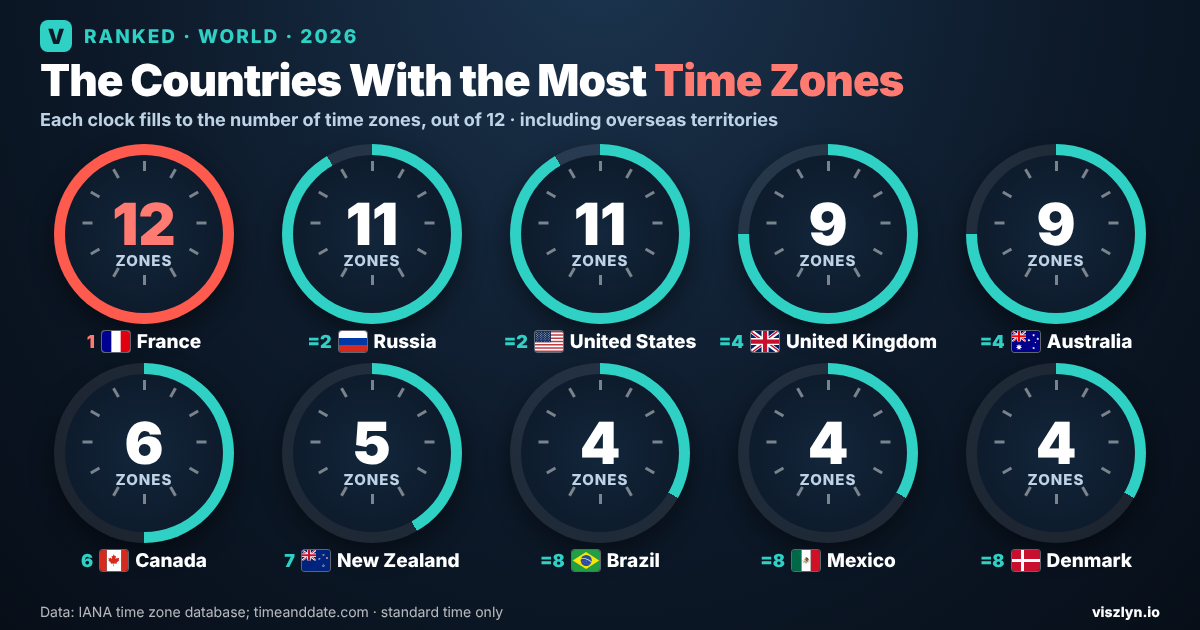
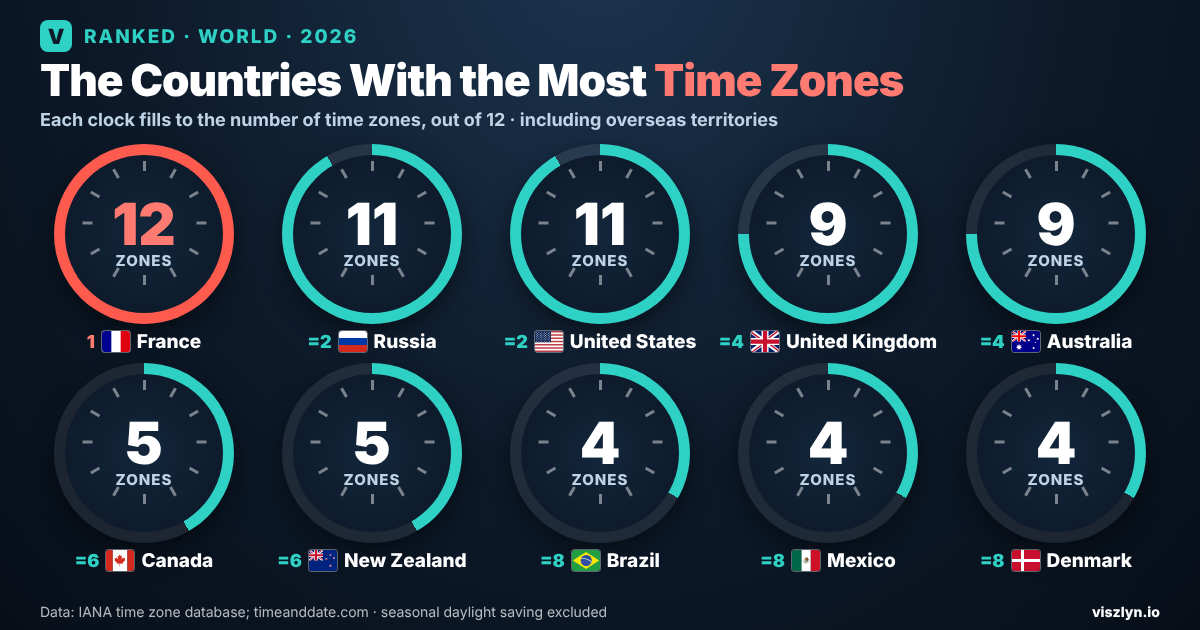
Time zones: apply review - Canada 5 after 2026 permanent-time changes, UK/France/NZ/US offsets, methodology
Claude-Session: https://claude.ai/code/session_01Lx7Mnbsr2j6Zre36XCS9Kp

diff --git a/src/data/rankings/countries-with-most-time-zones-2026.ts b/src/data/rankings/countries-with-most-time-zones-2026.ts
@@ -7,7 +7,7 @@ export const countriesWithMostTimeZones2026: RankingArticle = {
 
   metaTitle: "Which Country Has the Most Time Zones? The Top 10 Ranked | Viszlyn",
   metaDescription:
-    "France has the most time zones in the world: 12, thanks to its overseas territories. Russia and the US have 11 each, the UK and Australia 9. The top 10, ranked.",
+    "France has the most time zones in the world: 12, thanks to its overseas territories. Russia and the US have 11 each, the UK and Australia 9, Canada and New Zealand 5. The top 10, ranked.",
   ogTitle: "The Countries With the Most Time Zones",
   ogDescription:
     "Not Russia: France has the most time zones, 12, from French Polynesia to New Caledonia. Russia and the US follow with 11 each.",
@@ -20,20 +20,20 @@ export const countriesWithMostTimeZones2026: RankingArticle = {
   dek: "Russia is the world's widest country, but France has more time zones, thanks to islands and territories scattered across the Pacific, Atlantic and Indian oceans. Here are the 10 countries whose territory spans the most time zones.",
   publishedDate: "November 16, 2026",
   lastUpdated: "November 16, 2026",
-  dataPeriod: "Standard time in use in November 2026",
+  dataPeriod: "Time-zone rules in force in November 2026; seasonal daylight-saving offsets excluded",
   heroImage: {
     src: "/heroes/countries-with-most-time-zones-2026.png",
     ogSrc: "/heroes/countries-with-most-time-zones-2026-og.png",
-    alt: "A wall of world clocks, each filled to the number of time zones in a country out of 12: France 12, Russia 11, United States 11, United Kingdom 9, Australia 9, Canada 6, New Zealand 5, Brazil 4, Mexico 4 and Denmark 4.",
+    alt: "A wall of world clocks, each filled to the number of time zones in a country out of 12: France 12, Russia 11, United States 11, United Kingdom 9, Australia 9, Canada 5, New Zealand 5, Brazil 4, Mexico 4 and Denmark 4.",
   },
 
   quickAnswer:
-    "France has the most time zones of any country: 12, counting its overseas territories, from UTC−10 in French Polynesia to UTC+12 in Wallis and Futuna. Russia and the United States have 11 each, the United Kingdom and Australia 9 each, and Canada 6. Without their overseas territories, Russia has the most, with 11.",
+    "France has the most distinct time-zone offsets of any country: 12, counting its overseas territories, from UTC−10 in French Polynesia to UTC+12 in Wallis and Futuna. Russia and the United States follow with 11 each. The United Kingdom and Australia have nine each, while Canada and New Zealand have five each under the November 2026 rules. Without overseas territories, Russia has the most, with 11.",
   introParagraph:
     "A country's number of time zones is the number of different standard-time offsets from Coordinated Universal Time (UTC) in use across its territory. For countries with overseas territories, the count includes them, which is why France, the United Kingdom and Denmark rank so high despite having a single time zone at home. Daylight saving time is not counted as an extra zone. The counts follow the IANA time zone database, which computers and phones use to keep local time, checked against national time rules and timeanddate.com.",
   calloutBox: {
     label: "Without overseas territories, Russia leads",
-    body: "Counting only each country's main territory, Russia has the most time zones, 11, from UTC+2 in Kaliningrad to UTC+12 in Kamchatka. The United States has 6 across its 50 states, Canada 6, and Australia 4 official zones plus Eucla's unofficial UTC+8:45. France, the United Kingdom and Denmark have one each. China, one of the world's largest countries, uses a single time zone, UTC+8, for the whole country.",
+    body: "Counting only each country's main territory, Russia has the most time zones, 11, from UTC+2 in Kaliningrad to UTC+12 in Kamchatka. The United States has 6 across its 50 states, Canada 5, and Australia 4 official zones plus Eucla's unofficial UTC+8:45. France, the United Kingdom and Denmark have one each. China, one of the world's largest countries, uses a single time zone, UTC+8, for the whole country.",
   },
 
   chartTitle: "Number of time zones (standard time), including overseas territories",
@@ -46,8 +46,8 @@ export const countriesWithMostTimeZones2026: RankingArticle = {
     { rank: 3, rankLabel: "=2", name: "United States", value: "11", raw: 11, countries: [{ name: "United States", flagCode: "us" }] },
     { rank: 4, rankLabel: "=4", name: "United Kingdom", value: "9", raw: 9, countries: [{ name: "United Kingdom", flagCode: "gb" }] },
     { rank: 5, rankLabel: "=4", name: "Australia", value: "9", raw: 9, countries: [{ name: "Australia", flagCode: "au" }] },
-    { rank: 6, name: "Canada", value: "6", raw: 6, countries: [{ name: "Canada", flagCode: "ca" }] },
-    { rank: 7, name: "New Zealand", value: "5", raw: 5, countries: [{ name: "New Zealand", flagCode: "nz" }] },
+    { rank: 6, rankLabel: "=6", name: "Canada", value: "5", raw: 5, countries: [{ name: "Canada", flagCode: "ca" }] },
+    { rank: 7, rankLabel: "=6", name: "New Zealand", value: "5", raw: 5, countries: [{ name: "New Zealand", flagCode: "nz" }] },
     { rank: 8, rankLabel: "=8", name: "Brazil", value: "4", raw: 4, countries: [{ name: "Brazil", flagCode: "br" }] },
     { rank: 9, rankLabel: "=8", name: "Mexico", value: "4", raw: 4, countries: [{ name: "Mexico", flagCode: "mx" }] },
     { rank: 10, rankLabel: "=8", name: "Denmark", value: "4", raw: 4, countries: [{ name: "Denmark", flagCode: "dk" }] },
@@ -92,22 +92,24 @@ export const countriesWithMostTimeZones2026: RankingArticle = {
     },
     {
       rank: 7,
+      rankLabel: "=6",
       name: "New Zealand",
       earnings: "5 time zones",
       category: "Oceania",
       origin: "UTC−11, UTC−10, UTC+12, UTC+12:45, UTC+13",
-      blurb: "New Zealand itself has two time zones: UTC+12 and UTC+12:45 on the Chatham Islands. Its Pacific territories and associated states, Niue, the Cook Islands and Tokelau, add three more.",
+      blurb: "New Zealand itself has two time zones: UTC+12 and UTC+12:45 on the Chatham Islands. Tokelau, a New Zealand territory, and the associated states of Niue and the Cook Islands, which are self-governing in free association with New Zealand, add three more.",
       standoutFact: "In summer, the Chatham Islands move to UTC+13:45, an offset used nowhere else in the world.",
       sourceTag: SRC,
       countries: [{ name: "New Zealand", flagCode: "nz" }],
     },
     {
       rank: 6,
+      rankLabel: "=6",
       name: "Canada",
-      earnings: "6 time zones",
+      earnings: "5 time zones",
       category: "Americas",
-      origin: "UTC−8 to UTC−3:30",
-      blurb: "Canada has six time zones, all on its own territory, from Pacific Time (UTC−8) in British Columbia to Newfoundland Time (UTC−3:30).",
+      origin: "UTC−7 to UTC−3:30",
+      blurb: "Canada uses five distinct UTC offsets under the rules in force in November 2026, from UTC−7 in British Columbia to UTC−3:30 in Newfoundland. British Columbia (UTC−7), Alberta (UTC−6) and Manitoba (UTC−5) stopped changing their clocks on November 1, 2026, so some of Canada's traditional time-zone labels now share the same offset.",
       standoutFact: "Newfoundland Time is half an hour ahead of Atlantic Time, a half-hour offset rather than the usual full hour.",
       sourceTag: SRC,
       countries: [{ name: "Canada", flagCode: "ca" }],
@@ -131,7 +133,7 @@ export const countriesWithMostTimeZones2026: RankingArticle = {
       earnings: "9 time zones",
       category: "Europe",
       origin: "UTC−8 to UTC+6",
-      blurb: "The United Kingdom itself uses one time zone, Greenwich Mean Time (UTC+0). Its overseas territories, from the Pitcairn Islands (UTC−8) to the British Indian Ocean Territory (UTC+6), bring the total to nine.",
+      blurb: "The United Kingdom itself uses one time zone, Greenwich Mean Time (UTC+0). Its overseas territories and dependencies range from the Pitcairn Islands (UTC−8) to the British Indian Ocean Territory (UTC+6), with the Sovereign Base Areas of Akrotiri and Dhekelia in Cyprus (UTC+2) among the offsets in between, bringing the total to nine.",
       standoutFact: "The prime meridian, the zero line from which time zones are counted, runs through Greenwich in London.",
       sourceTag: SRC,
       countries: [{ name: "United Kingdom", flagCode: "gb" }],
@@ -143,7 +145,7 @@ export const countriesWithMostTimeZones2026: RankingArticle = {
       earnings: "11 time zones",
       category: "Americas",
       origin: "UTC−12 to UTC+12",
-      blurb: "The 50 states span six time zones, from Hawaii (UTC−10) to Eastern Time (UTC−5). US territories add five more: UTC−12 on the uninhabited Baker and Howland islands, UTC−11 in American Samoa, UTC−4 in Puerto Rico and the US Virgin Islands, UTC+10 in Guam and the Northern Mariana Islands, and UTC+12 on Wake Island.",
+      blurb: "The 50 states span six time zones, from Hawaii (UTC−10) to Eastern Time (UTC−5). US territories add five more: UTC−12, the offset listed for the uninhabited Baker and Howland islands, UTC−11 in American Samoa, UTC−4 in Puerto Rico and the US Virgin Islands, UTC+10 in Guam and the Northern Mariana Islands, and UTC+12 on Wake Island.",
       standoutFact: "From UTC−12 to UTC+12, US territory covers a full 24 hours of offsets.",
       sourceTag: SRC,
       countries: [{ name: "United States", flagCode: "us" }],
@@ -166,7 +168,7 @@ export const countriesWithMostTimeZones2026: RankingArticle = {
       earnings: "12 time zones",
       category: "Europe",
       origin: "UTC−10 to UTC+12",
-      blurb: "Metropolitan France has a single time zone, UTC+1. Its overseas territories add 11 more, from French Polynesia (UTC−10) in the Pacific to Wallis and Futuna (UTC+12), via the Caribbean, South America and the Indian Ocean.",
+      blurb: "Metropolitan France has a single time zone, UTC+1. Its overseas territories add 11 more, from French Polynesia (UTC−10) in the Pacific to Wallis and Futuna (UTC+12), via the Caribbean, South America and the Indian Ocean. Two are easy to miss: uninhabited Clipperton Island (UTC−8) and the French Southern Territories (UTC+5).",
       standoutFact: "French Polynesia's Marquesas Islands use UTC−9:30, a half-hour offset. In summer, Saint Pierre and Miquelon moves to UTC−2, giving France a 13th local time.",
       sourceTag: SRC,
       countries: [{ name: "France", flagCode: "fr" }],
@@ -178,16 +180,16 @@ export const countriesWithMostTimeZones2026: RankingArticle = {
     label: "Time zones in France, counting its overseas territories",
     comparisonStat: "1",
     comparisonLabel: "Time zone in China, one of the world's largest countries",
-    note: "Russia and the United States both have 11 time zones. Without overseas territories, Russia leads with 11 and France has just one.",
+    note: "Russia and the United States each have 11 distinct offsets under this ranking's inclusion rules. Without overseas territories, Russia leads with 11 and France has just one. Canada and New Zealand each have five.",
   },
 
   sourceNote: {
-    dataPeriod: "Standard time in use in November 2026",
+    dataPeriod: "Time-zone rules in force in November 2026; seasonal daylight-saving offsets excluded",
     lastUpdated: "November 16, 2026",
     sources:
       "IANA time zone database (tzdata); national time regulations; timeanddate.com, \"Which Country Has the Most Time Zones?\".",
     methodology:
-      "A time zone is counted for each distinct standard-time offset from UTC used anywhere in a country's territory, including overseas territories, dependencies and associated states, but not Antarctic territorial claims. Daylight saving time is not counted as a separate zone, even where it creates an offset that is not used as standard time (noted in the entries). Australia's count includes the unofficial UTC+8:45 used around Eucla. Counts for some countries differ between sources depending on which territories they include; Denmark's reflects Greenland's 2023 change from UTC−3 to UTC−2.",
+      "We count each distinct base UTC offset used across a country's territory, overseas territories, dependencies and associated states, using the time-zone rules in force in November 2026. Seasonal daylight-saving changes are not counted as additional time zones. Permanent year-round offsets are counted, even where a government has adopted what was previously daylight-saving time as its new fixed time. We include regularly used nonstandard offsets, such as Australia's UTC+8:45 around Eucla. The count also includes uninhabited territories where a time offset is assigned or commonly listed, including Baker and Howland Islands and Wake Island in the US. Antarctic territorial claims are not counted. Because countries and sources differ in how they treat dependencies and uninhabited islands, totals may vary.",
     sourceLinks: [
       { label: "IANA: Time Zone Database", href: "https://www.iana.org/time-zones" },
       { label: "timeanddate.com: Which Country Has the Most Time Zones?", href: "https://www.timeanddate.com/time/country-with-the-most-time-zones.html" },
@@ -213,7 +215,7 @@ export const countriesWithMostTimeZones2026: RankingArticle = {
     {
       question: "How many time zones does Canada have?",
       answer:
-        "Six: Pacific, Mountain, Central, Eastern, Atlantic and Newfoundland time, from UTC−8 to UTC−3:30.",
+        "Five distinct offsets since November 1, 2026: UTC−7, UTC−6, UTC−5, UTC−4 and UTC−3:30 (Newfoundland). British Columbia, Alberta and Manitoba stopped changing their clocks on November 1, 2026, so British Columbia no longer uses UTC−8.",
     },
     {
       question: "Why does China have only one time zone?",
